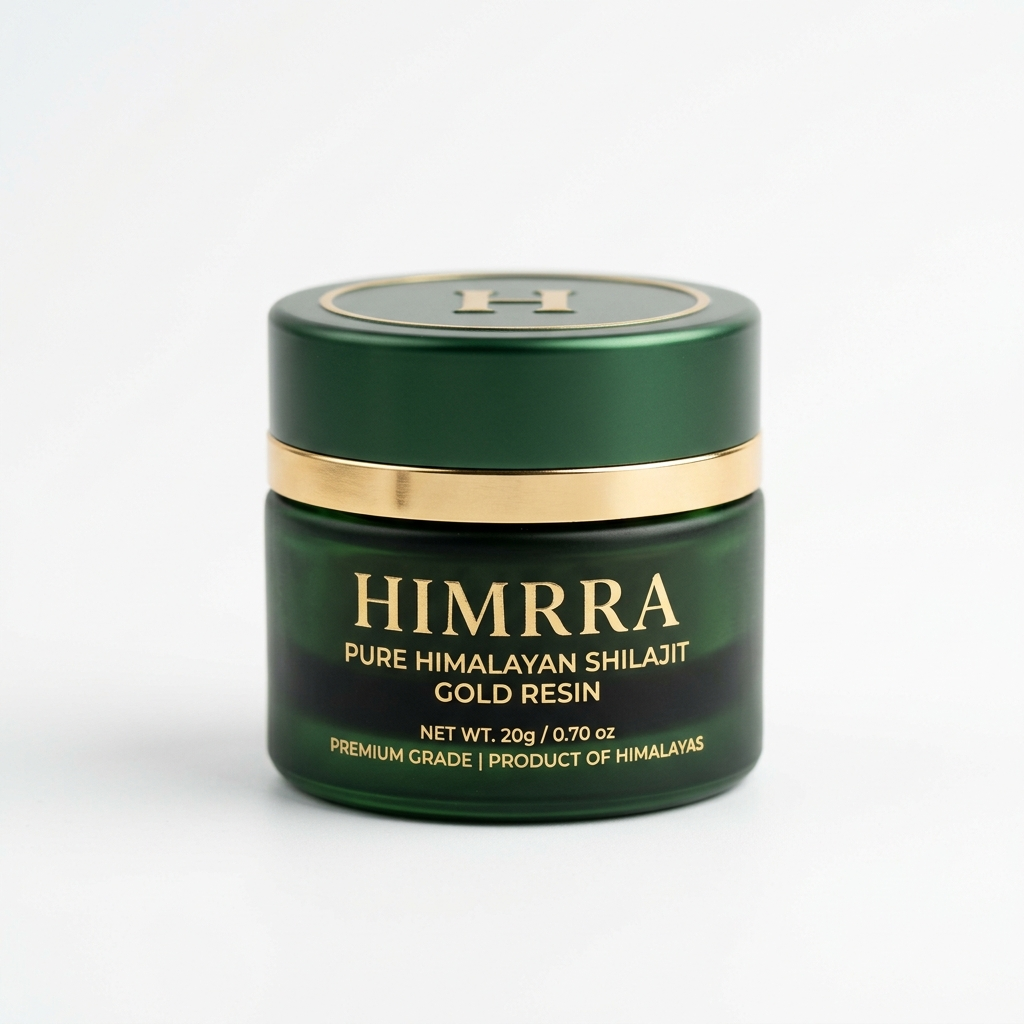
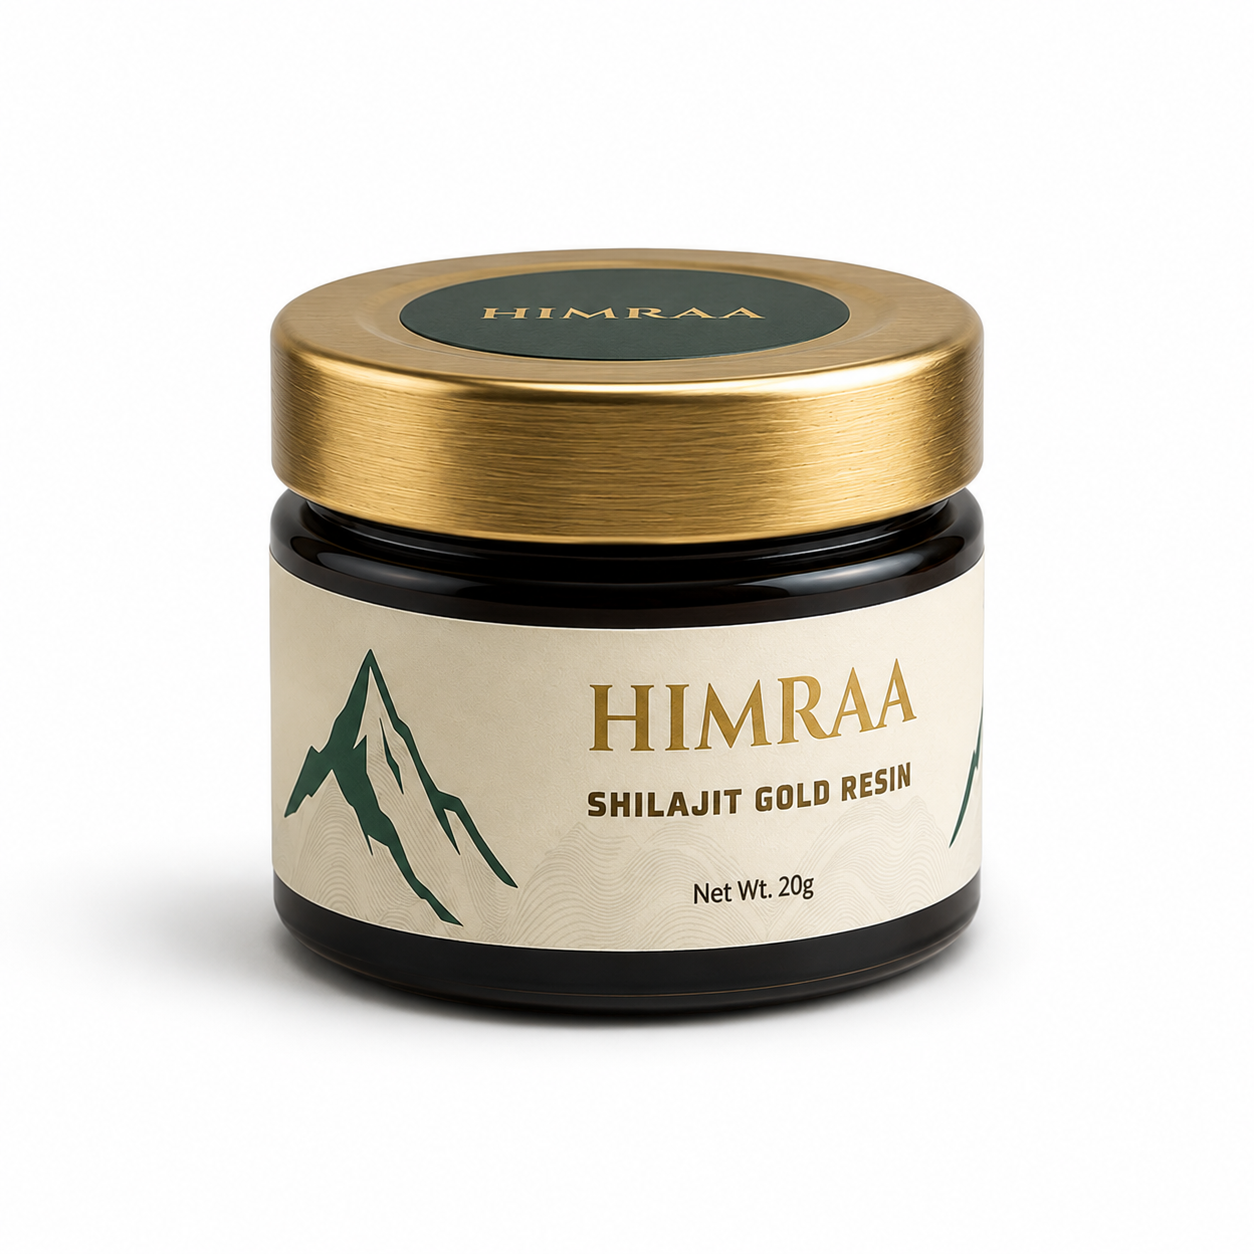
chore: save state before humanizing copy pass

diff --git a/app/components/HeroCarousel.tsx b/app/components/HeroCarousel.tsx
@@ -19,12 +19,12 @@ const slides: Slide[] = [
     layout: 'left-dominant',
     headline: (
       <>
-        High-Altitude<br />
-        <em className="text-gold-light not-italic">Sourced</em>
+        Elevate Your<br />
+        <em className="text-gold-light not-italic">Vitality</em>
       </>
     ),
-    body: 'Harvested from the high Himalayas at 18,000 ft. Authentic, raw mineral resin.',
-    cta: { label: 'Our Sourcing', href: '#story' },
+    body: 'Pure Himalayan Shilajit resin, sustainably sourced and lab-verified for potency.',
+    cta: { label: 'Our Story', href: '#story' },
     number: '01',
   },
   {
@@ -33,11 +33,11 @@ const slides: Slide[] = [
     eyebrow: 'Third-Party Tested',
     headline: (
       <>
-        Pure<br />
-        <em className="text-gold-light not-italic">Resin</em>
+        Authentic<br />
+        <em className="text-gold-light not-italic">Sourcing</em>
       </>
     ),
-    body: 'Cold-filtered to preserve its natural mineral composition. Lab-verified for safety and potency.',
+    body: 'Harvested from the high Himalayas at 18,000 ft. Raw and pure mineral resin.',
     cta: { label: 'View Lab Results', href: '#benefits' },
     number: '02',
   },
@@ -47,11 +47,11 @@ const slides: Slide[] = [
     eyebrow: 'Daily Wellness',
     headline: (
       <>
-        The Daily<br />
-        <em className="text-gold-light not-italic">Routine</em>
+        The Purest<br />
+        <em className="text-gold-light not-italic">Mineral Resin</em>
       </>
     ),
-    body: 'Dissolve a small amount in warm water. A simple addition to your morning.',
+    body: '85+ ionic trace minerals and high fulvic acid for optimal absorption.',
     cta: { label: 'How to Use', href: '#ritual' },
     number: '03',
   },
@@ -169,12 +169,6 @@ export default function HeroCarousel() {
             key={`content-${current}`}
             className="flex flex-col items-center text-center space-y-6 md:space-y-8 fade-in"
           >
-            <span
-              className="text-[clamp(4rem,10vw,10rem)] font-serif font-light leading-none text-white/10 absolute bottom-32 left-1/2 -translate-x-1/2 select-none pointer-events-none"
-              aria-hidden="true"
-            >
-              {slide.number}
-            </span>
             {slide.eyebrow && (
               <p className="text-[10px] uppercase tracking-[0.25em] text-white/60 font-outfit font-medium">
                 {slide.eyebrow}

diff --git a/next.config.ts b/next.config.ts
@@ -2,6 +2,7 @@ import type { NextConfig } from "next";
 
 const nextConfig: NextConfig = {
   images: {
+    unoptimized: true,
     remotePatterns: [
       {
         protocol: 'https',